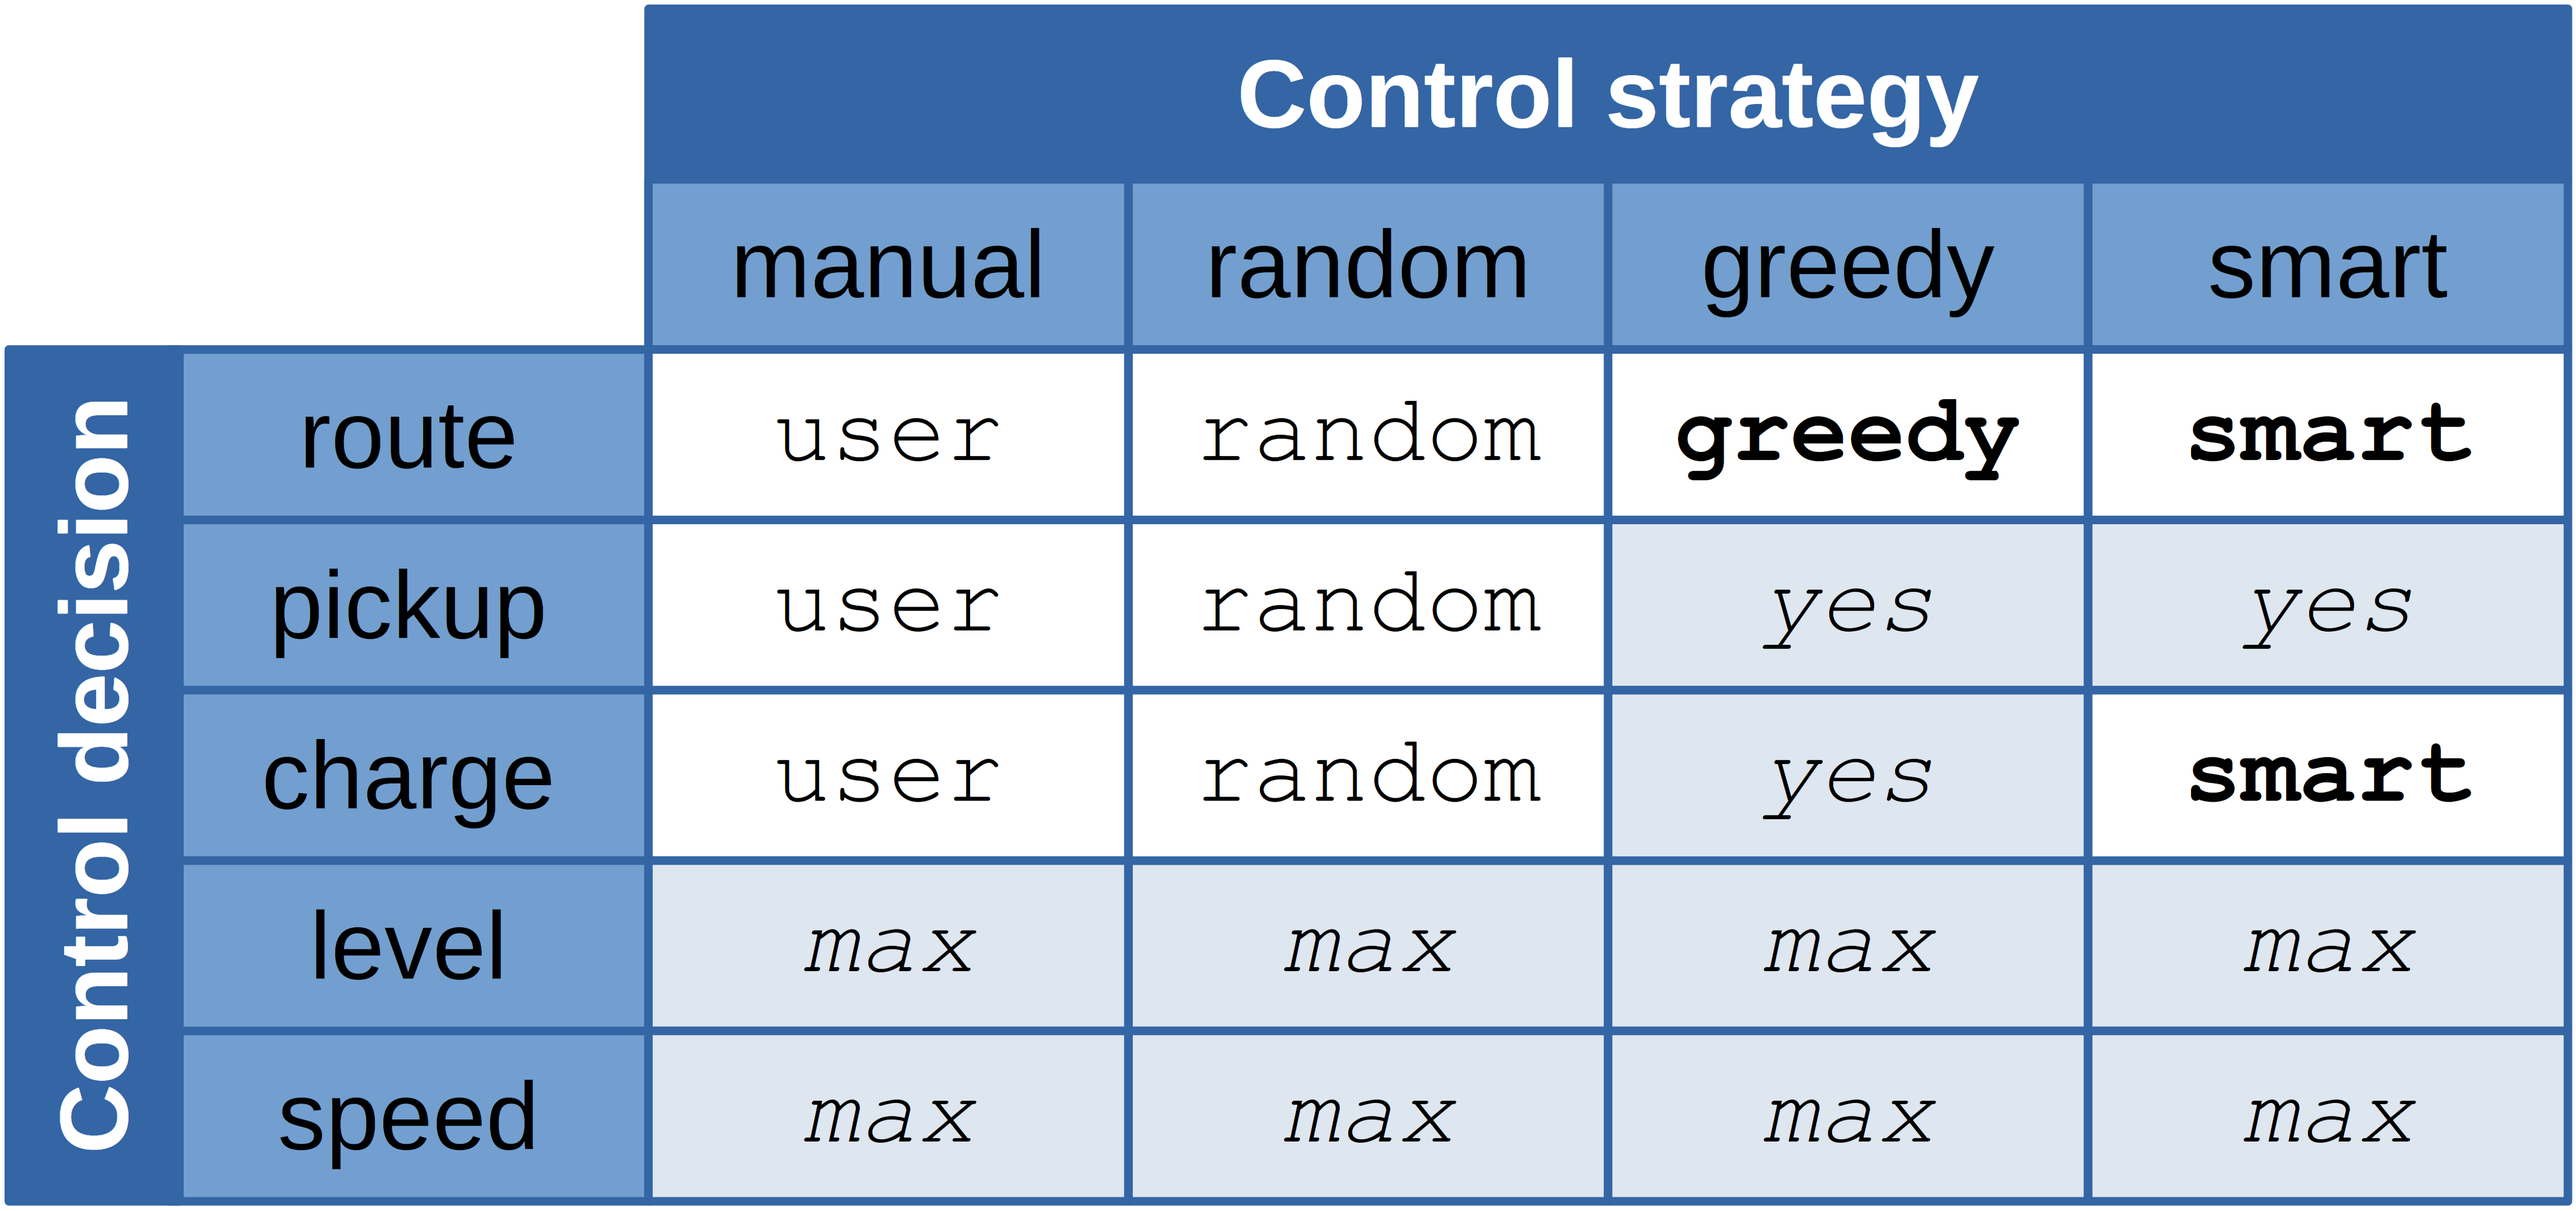
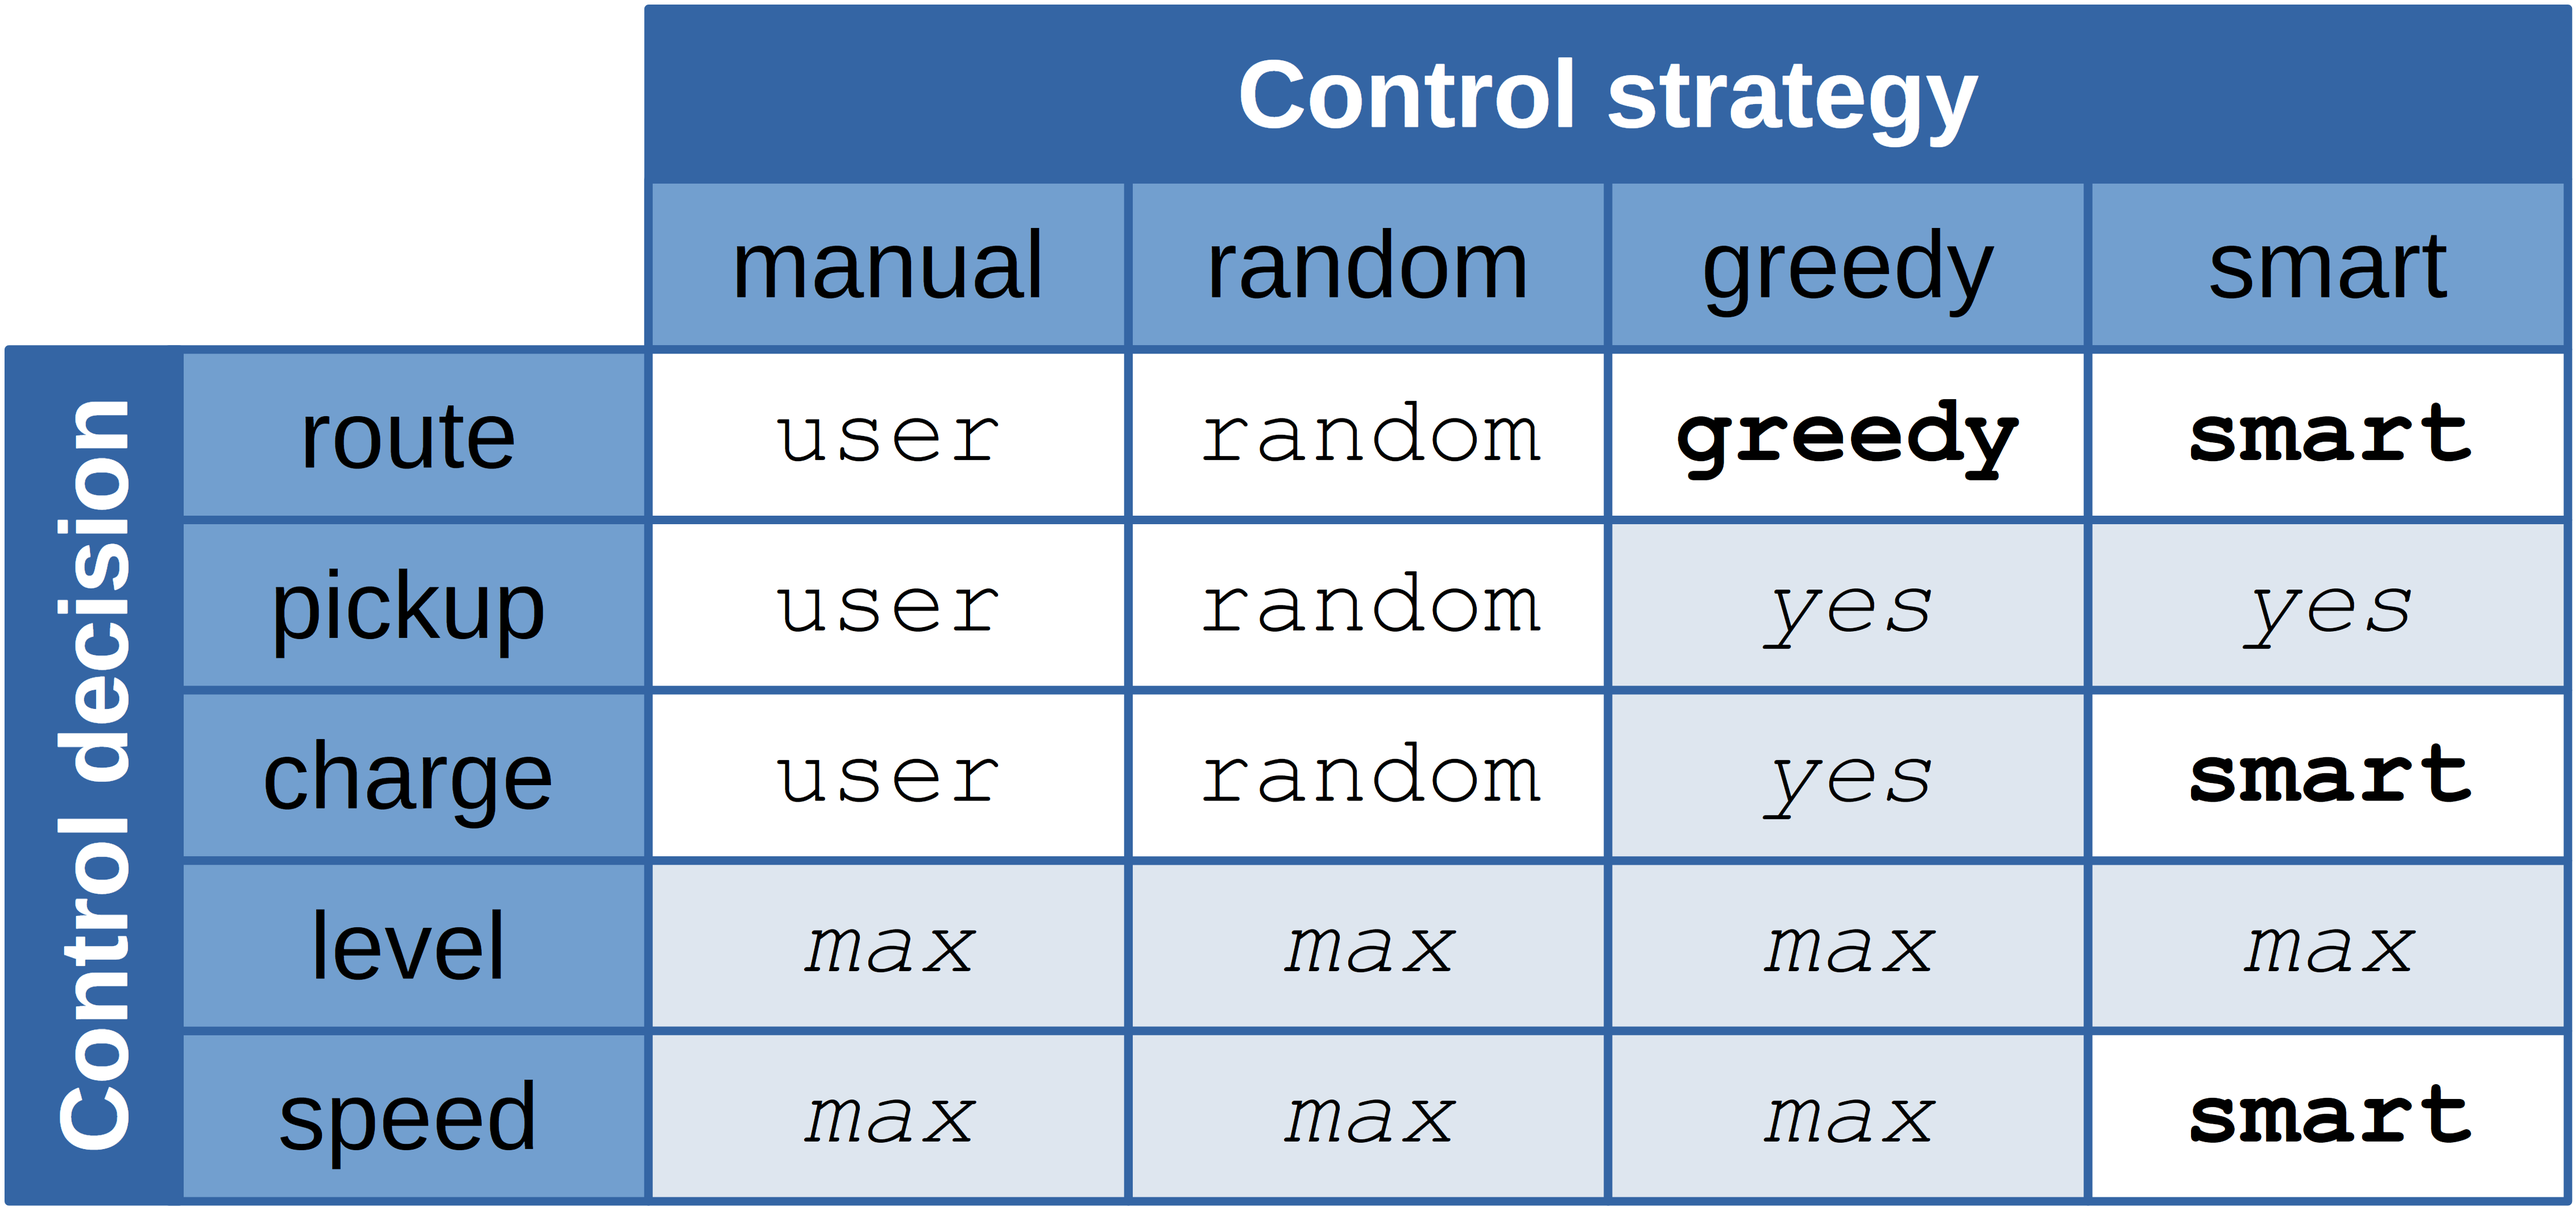
start explaining smart control strategy

Changed region(s): [[0.8093, 0.8366, 0.996, 0.9915]]

diff --git a/manuscripts/01_design_tool/main.tex b/manuscripts/01_design_tool/main.tex
@@ -50,8 +50,8 @@ Finally, we want to study how the relevant design information could be represent
 \paragraph{Research methodology}
 
 In the following, we first propose a modeling and simulation framework for capturing design decisions and evaluating emergent properties in Section~\ref{sec:approach}.
-Then, we propose a graphical user interface for building system designs, starting simulation runs, and visualizing simulation outcomes in Section~\ref{sec:gui}.
-Thereafter, we propose two specific applications of our modeling and simulation framework as well as user interface technology in Section~\ref{sec:application}.
+%Then, we propose a graphical user interface for building system designs, starting simulation runs, and visualizing simulation outcomes in Section~\ref{sec:gui}.
+\textcolor{red}{Thereafter, we propose two specific applications of our modeling and simulation framework as well as user interface technology in Section~\ref{sec:application}.}
 Finally, we draw our conclusions and describe future direction of research and development on the design of ITS in Section~\ref{sec:conclusion}. 
 
 \section{General approach}
@@ -302,12 +302,21 @@ The logic comprises four rules, which are processed in sequential order until on
     \item Next, when the vehicle carries no demand, the strategy randomly selects the pick-up segment of an unserved demand if reachable directly via the intersection.
     \item Finaly, when none of the above rules applied, the strategy randomly selects any of the outgoing road segments of the current intersection.
 \end{enumerate}
-Moreover, the greedy control strategy always chooses to pick up demands or charge vehicle batteries if arriving at an unserved demand pick-up location or charging station.
+Note that the above rules of the routing logic only consider the next segment and do not perform a look-ahead across more segments.
+Finally, the greedy control strategy always chooses to pick up demands or charge vehicle batteries if arriving at an unserved demand pick-up location or charging station.
 Also, the strategy always chooses to drive at maximum speed and to fully charge the batteries if a charging process has started.
 
 \subsubsection*{Smart control strategy}
 \label{sec:controller-smart}
 
+The smart control strategy uses an even more sophisticated strategy for determining routing decisions upon intersection arrivals of vehicles.
+The logic again comprises four rules, which are processed in sequential order until one rule applies:
+\begin{enumerate}
+    \item \textcolor{red}{TODO}
+    \item \textcolor{red}{TODO}
+    \item \textcolor{red}{TODO}
+    \item \textcolor{red}{TODO}
+\end{enumerate}
 \textcolor{red}{TODO}
 
 \subsection{Data recorder}
@@ -324,22 +333,22 @@ Also, the strategy always chooses to drive at maximum speed and to fully charge 
 
 \textcolor{red}{TODO}
 
-\subsection{Model parser}
+%\subsection{Model parser}
 
-\textcolor{red}{TODO}
+%\textcolor{red}{TODO}
 
-\subsection{Simulation engine}
+%\subsection{Simulation engine}
 
-\textcolor{red}{TODO}
+%\textcolor{red}{TODO}
 
-\subsection{Data exporter}
+%\subsection{Data exporter}
 
-\textcolor{red}{TODO}
+%\textcolor{red}{TODO}
 
-\subsection{Data visualizations}
-\label{sec:gui}
+%\subsection{Data visualizations}
+%\label{sec:gui}
 
-\textcolor{red}{TODO}
+%\textcolor{red}{TODO}
 
 %\begin{figure*}[tbp]
 %    \includegraphics[width=\textwidth]{../../screenshots/basic-simulation.png}
@@ -347,47 +356,51 @@ Also, the strategy always chooses to drive at maximum speed and to fully charge 
 %    \label{fig:gui}
 %\end{figure*}
 
-\subsubsection{Map}
+%\subsubsection{Map}
 
-\textcolor{red}{TODO}
+%\textcolor{red}{TODO}
 
-\subsubsection{Vehicle charts}
+%\subsubsection{Vehicle charts}
 
-\textcolor{red}{TODO}
+%\textcolor{red}{TODO}
 
-\paragraph{Vehicle battery chart}
+%\paragraph{Vehicle battery chart}
 
-\textcolor{red}{TODO}
+%\textcolor{red}{TODO}
 
-\paragraph{Vehicle distance chart}
+%\paragraph{Vehicle distance chart}
 
-\textcolor{red}{TODO}
+%\textcolor{red}{TODO}
 
-\subsubsection{Demand charts}
+%\subsubsection{Demand charts}
 
-\textcolor{red}{TODO}
+%\textcolor{red}{TODO}
 
-\paragraph{Demand time chart}
+%\paragraph{Demand time chart}
 
-\textcolor{red}{TODO}
+%\textcolor{red}{TODO}
 
-\paragraph{Demand distance chart}
+%\paragraph{Demand distance chart}
 
-\textcolor{red}{TODO}
+%\textcolor{red}{TODO}
 
-\subsubsection{Infrastructure charts}
+%\subsubsection{Infrastructure charts}
 
-\textcolor{red}{TODO}
+%\textcolor{red}{TODO}
 
-\paragraph{Intersection chart}
+%\paragraph{Intersection chart}
 
-\textcolor{red}{TODO}
+%\textcolor{red}{TODO}
 
-\paragraph{Segment chart}
+%\paragraph{Segment chart}
 
-\textcolor{red}{TODO}
+%\textcolor{red}{TODO}
 
-\paragraph{Station chart}
+%\paragraph{Station chart}
+
+%\textcolor{red}{TODO}
+
+\subsection{Remaining modules}
 
 \textcolor{red}{TODO}
 
